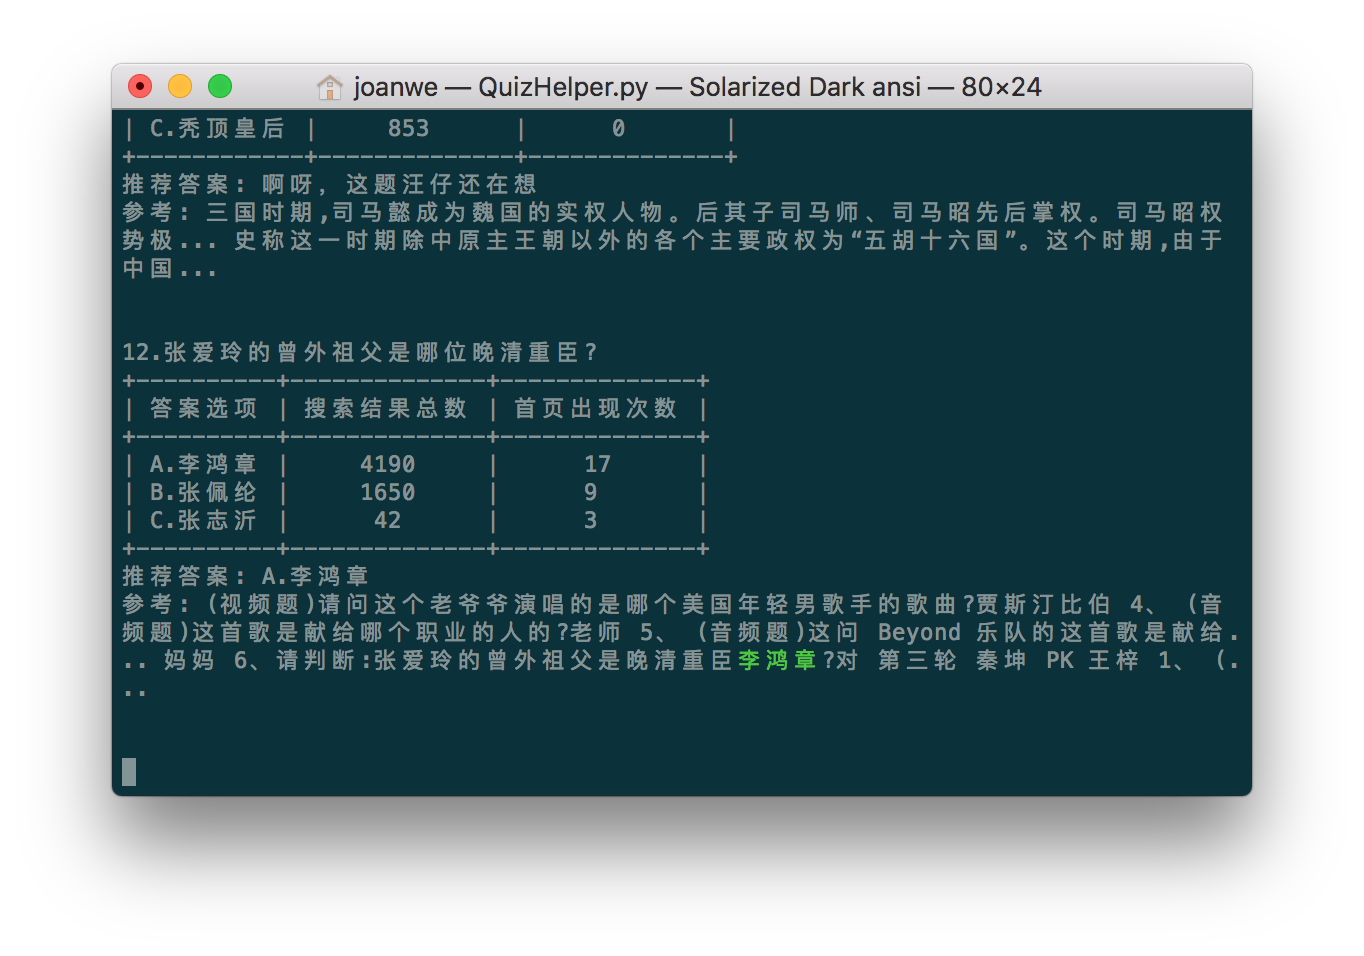
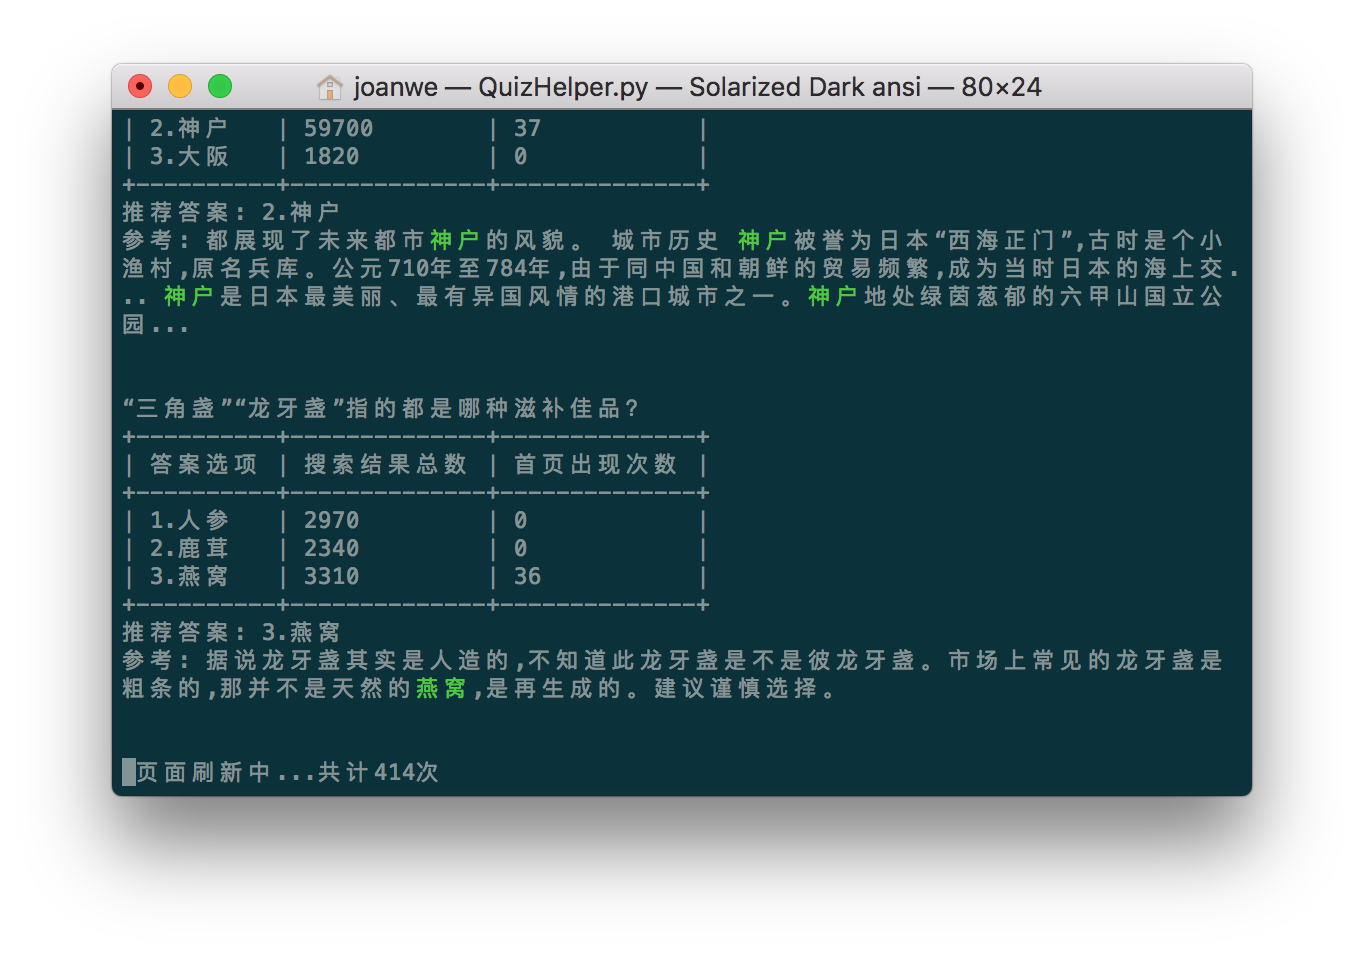
Add files via upload

diff --git a/QuizHelper.py b/QuizHelper.py
@@ -1,119 +1,35 @@
 #!/usr/bin/python
 # -*- coding: utf-8 -*-
-
+# Copyright 2018 XXX. All Rights Reserved.
 # Author:  joanwe
 # Time:    2018/01/20 22:23
 # desc:    直播答题辅助,支持冲顶大会/芝士超人/西瓜视频百万英雄/花椒百万赢家
 
-import requests as req
-import json
+
+from QH_http import get_key, get_content
+from QH_data import data_processing
+from QH_print import print_table
 import time
-from prettytable import PrettyTable
-from threading import Thread
 
 
 def main():
-    select_app()
-    thd = Thread(target=reselect_app)
-    thd.start()
+    get_key()
     while True:
         for value in get_content():
             if not isInresults(value):
                 results.add(value)
-                display_content(value)
+                data_processing(value)
+                print_table(value)
+            else:
+                global sum
+                sum += 1
+                string = '页面刷新中...共计%d次' % sum
+                print('\r', string, end='')  # 覆盖打印不换行
                 time.sleep(0.5)
 
 
-# 重新选择答题App
-def reselect_app():
-    index = input()
-    if int(index) == 0:
-        main()
-
-
-# 选择答题APP
-def select_app():
-    global api_key
-    index = input(('请选择答题APP:\n1:冲顶大会\n2:芝士超人\n3:西瓜百万英雄\n4:花椒百万赢家'
-                   '\n----------------\n提示:过程中输入数字键0可重新选择答题app\n'))
-    if int(index) == 1:
-        api_key = 'cddh'
-    elif int(index) == 2:
-        api_key = 'zscr'
-    elif int(index) == 3:
-        api_key = 'xigua'
-    elif int(index) == 4:
-        api_key = 'huajiao'
-    else:
-        print("输入错误,请重新选择")
-        select_app()
-
-
-# 获取搜狗api内容
-def get_content():
-    api = 'http://140.143.49.31/api/ans2?key=' + api_key
-    headers = {
-        'Host': '140.143.49.31',
-        'Connection': 'keep-alive',
-        'Accept': '*/*',
-        'User-Agent': 'Mozilla/5.0 (iPhone; CPU iPhone OS 9_3_5 like Mac OS X) AppleWebKit/601.1.46 (KHTML, like Gecko) Mobile/13G36 Sogousearch/Ios/5.9.7',
-        'Accept-Language': 'zh-cn',
-        'Referer': 'http://nb.sa.sogou.com/',
-        'Accept-Encoding': 'gzip, deflate'
-    }
-
-    html = req.get(api, headers=headers)
-    html = html.text
-    html = html[html.find("(") + 1: len(html) - 1]
-    return json.loads(html)['result']
-
-
-# 展示问题及答案
-def display_content(value):
-    value = json.loads(value)
-    # 处理搜索结果
-    if len(value['answers']) > 0:
-        search_counts = []
-        appear_counts = []
-        table = PrettyTable(['答案选项', '搜索结果总数', '首页出现次数'])
-        table.align['答案选项'] = 'l'
-        title = value['title']
-        for anwsers in value['answers']:
-            # 多线程
-            t1 = Thread(target=get_appear_counts(title, anwsers, appear_counts))
-            t2 = Thread(target=get_search_counts(title, anwsers, search_counts))
-            t2.start()
-            t1.start()
-
-            # 单线程
-            # get_search_counts(title, anwsers, search_counts)
-            # get_appear_counts(title, anwsers, appear_counts)
-
-        # 将数据添加到表格
-        table.add_row(['A.' + value['answers'][0], search_counts[0], appear_counts[0]])
-        table.add_row(['B.' + value['answers'][1], search_counts[1], appear_counts[1]])
-        table.add_row(['C.' + value['answers'][2], search_counts[2], appear_counts[2]])
-
-        # 打印绿色高亮字体    '\033[0;32m' +  + '\033[0m'
-        # 推荐答案添加字母排序
-        letter = ''
-        letters = ['A.', 'B.', 'C.']
-        recommend = value['recommend']
-        summary = value['search_infos'][0]['summary']
-        for i in value['answers']:
-            if recommend in i:
-                letter = letters[value['answers'].index(i)]
-        for i in value['answers']:
-            if i in summary:
-                summary = summary.replace(i, '\033[0;32m' + i + '\033[0m')
-
-        # 打印表格
-        print(title)
-        print(table)
-        print('推荐答案:', letter + value['recommend'])
-        print('参考:', summary)
-        print('\n')
-
+# 刷新次数
+sum = 0
 
 # 判断是否出现新题目
 results = set([])
@@ -121,22 +37,6 @@ results = set([])
 
 def isInresults(value):
     return value in results
-
-
-# 获取搜索结果总数
-def get_search_counts(title, anwsers, search_counts):
-    r = req.get('http://www.baidu.com/s', params={'wd': title + '' + anwsers})
-    html = r.text
-    index = html.find('百度为您找到相关结果约') + 11
-    html = html[index:]
-    index = html.find('个')
-    search_counts.append(html[:index].replace(',', ''))
-
-
-# 获取首页出现次数
-def get_appear_counts(title, anwers, appear_counts):
-    page = req.get('http://www.baidu.com/s', params={'wd': title}).text
-    appear_counts.append(page.count(anwers))
 
 
 if __name__ == '__main__':

diff --git a/QH_data.py b/QH_data.py
@@ -1,0 +1,68 @@
+#!/usr/bin/python
+# -*- coding: utf-8 -*-
+# Copyright 2018 XXX. All Rights Reserved.
+# Author:  joanwelol@gmail.com
+# QH_data.py 2018/1/25 21:57
+# desc:
+
+import asyncio
+import aiohttp
+from bs4 import BeautifulSoup as bs4
+import json
+from QH_print import table
+
+
+# 获取搜索结果总数
+async def get_search_counts(title, anwsers, search_counts):
+    async with aiohttp.ClientSession() as session:
+        async with session.get('http://www.baidu.com/s?wd=' + title + ' ' + anwsers) as resp1:
+            html1 = await resp1.text()
+            index = html1.find('百度为您找到相关结果约') + 11
+            html1 = html1[index:]
+            index = html1.find('个')
+            search_counts[anwsers] = html1[:index].replace(',', '')
+
+
+# 获取首页出现次数
+async def get_appear_counts(title, anwers, appear_counts):
+    async with aiohttp.ClientSession() as session:
+        async with session.get('http://www.baidu.com/s?wd=' + title) as resp2:
+            html2 = await resp2.text()
+            html2 = bs4(html2, 'lxml')
+            html2 = html2.find_all('div', attrs={'class': 'result c-container '})
+            html2 = str(html2)
+            appear_counts[anwers] = html2.count(anwers)
+
+
+# 处理数据表格
+def data_processing(value):
+    value = json.loads(value)
+    if len(value['answers']) > 0:
+        search_counts = {}
+        appear_counts = {}
+        for name in value['answers']:
+            search_counts = {name: 0}
+            appear_counts = {name: 0}
+        title = value['title']
+        table.clear_rows()
+
+        # 异步io 获取数据结果
+        async def main():
+            coroutines1 = [get_search_counts(title, answers, search_counts) for answers in value['answers']]
+            coroutines2 = [get_appear_counts(title, answers, appear_counts) for answers in value['answers']]
+            coroutines = coroutines1 + coroutines2
+            tasks = [asyncio.ensure_future(coroutine) for coroutine in coroutines]
+            await asyncio.wait(tasks)
+
+        # 启动和关闭事件循环
+        loop = asyncio.new_event_loop()
+        asyncio.set_event_loop(loop)
+        loop = asyncio.get_event_loop()
+        loop.run_until_complete(main())
+        loop.close()
+
+        # 向表格添加数据结果
+        index = value['answers']
+        table.add_row(['1.' + index[0], search_counts[index[0]], appear_counts[index[0]]])
+        table.add_row(['2.' + index[1], search_counts[index[1]], appear_counts[index[1]]])
+        table.add_row(['3.' + index[2], search_counts[index[2]], appear_counts[index[2]]])

diff --git a/QH_http.py b/QH_http.py
@@ -1,0 +1,47 @@
+#!/usr/bin/python
+# -*- coding: utf-8 -*-
+# Copyright 2018 XXX. All Rights Reserved.
+# Author:  joanwelol@gmail.com
+# QH_http.py 2018/1/25 21:57
+# desc:
+
+import requests as req
+import json
+from math import floor
+from random import random
+
+api_key = ''
+
+
+# 获取api_key
+def get_key():
+    global api_key
+    index = input('请选择答题APP:\n1:冲顶大会\n2:芝士超人\n3:西瓜百万英雄\n4:花椒百万赢家\n5:一直播黄金十秒')
+    if int(index) == 1:
+        api_key = 'cddh'
+    elif int(index) == 2:
+        api_key = 'zscr'
+    elif int(index) == 3:
+        api_key = 'xigua'
+    elif int(index) == 4:
+        api_key = 'hujiao'
+    elif int(index) == 5:
+        api_key = 'hjsm'
+    else:
+        print("输入错误,请重新选择")
+        get_key()
+
+
+# 获取搜狗api内容
+def get_content():
+    api = 'http://140.143.49.31/api/ans2?key=' + api_key
+    headers = {
+        'Referer': 'http://wd.sa.sogou.com',
+        'User-Agent': ('User-Agent: Mozilla/5.0 (X11; Linux x86_64) '
+                       'AppleWebKit/537.36 (KHTML, like Gecko) Chrome/63.0.3239.84 Safari/537.36 Sogousearch/Ios/5.9.7'),
+        'Cookie': 'dt_ssuid=' + str(floor(100000 * random()))
+    }
+    html = req.get(api, headers=headers)
+    html = html.text
+    html = html[html.find("(") + 1: len(html) - 1]
+    return json.loads(html)['result']

diff --git a/QH_print.py b/QH_print.py
@@ -1,0 +1,34 @@
+#!/usr/bin/python
+# -*- coding: utf-8 -*-
+# Copyright 2018 XXX. All Rights Reserved.
+# Author:  joanwelol@gmail.com
+# QH_print.py 2018/1/25 22:20
+# desc:
+import json
+from prettytable import PrettyTable
+
+table = PrettyTable(['答案选项', '搜索结果总数', '首页出现次数'])
+table.align = 'l'
+
+
+# 打印表格
+def print_table(value):
+    value = json.loads(value)
+    title = value['title']
+    letter = ''
+    letters = ['1.', '2.', '3.']
+    recommend = value['recommend']
+    summary = value['search_infos'][0]['summary']
+    for i in value['answers']:
+        if recommend in i:
+            letter = letters[value['answers'].index(i)]
+    for i in value['answers']:
+        if i in summary:
+            # 打印绿色高亮字体    '\033[0;32m' +  + '\033[0m'
+            summary = summary.replace(i, '\033[0;32m' + i + '\033[0m')
+    print('\b' * 24, end='', flush=True)  # 删除前面打印字符
+    print(title)
+    print(table)
+    print('推荐答案:', letter + value['recommend'])
+    print('参考:', summary)
+    print('\n')
